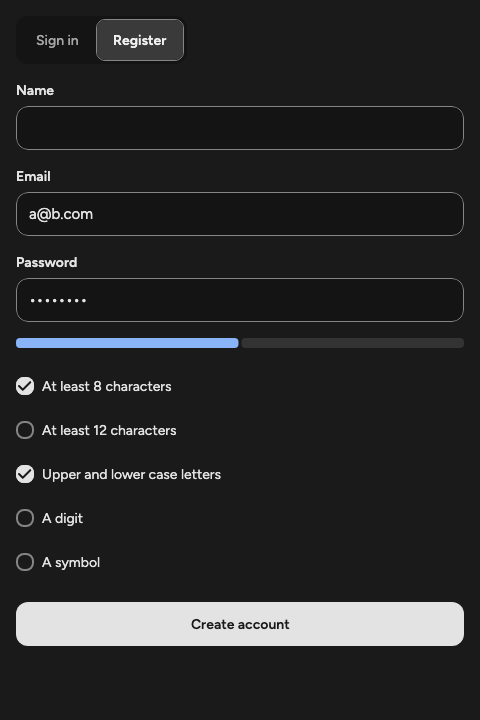
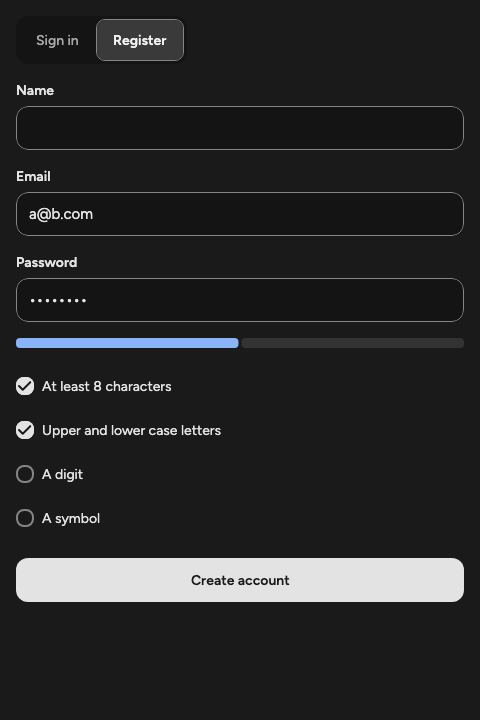
fix(#44): simplify registration password checklist and scoring to 4 rules

diff --git a/better-auth-fds/src/jvmTest/kotlin/dev/fediim/auth/fds/BetterAuthDialogUiTest.kt b/better-auth-fds/src/jvmTest/kotlin/dev/fediim/auth/fds/BetterAuthDialogUiTest.kt
@@ -71,7 +71,7 @@ class BetterAuthDialogUiTest {
 
     onNodeWithText("Register").performClick()
     until("register") { vm.state.value.mode == AuthMode.REGISTER && hasTag(TAG_NAME) }
-    assertTrue((0..4).all { hasTag(TAG_RULE_PREFIX + it) })
+    assertTrue((0..3).all { hasTag(TAG_RULE_PREFIX + it) } && !hasTag(TAG_RULE_PREFIX + "4"))
 
     onNodeWithText("Sign in").performClick()
     until("sign in") { vm.state.value.mode == AuthMode.SIGN_IN && !hasTag(TAG_NAME) }
@@ -285,11 +285,11 @@ class BetterAuthDialogUiTest {
     val cases =
         mapOf(
             "abcdefgh" to listOf(0),
-            "abcdefghijkl" to listOf(0, 1),
-            "Abcdefgh" to listOf(0, 2),
-            "abcdefg1" to listOf(0, 3),
-            "abcdefg!" to listOf(0, 4),
-            "Ab1!" to listOf(2, 3, 4),
+            "Abcdefgh" to listOf(0, 1),
+            "abcdefg1" to listOf(0, 2),
+            "abcdefg!" to listOf(0, 3),
+            "Ab1!" to listOf(1, 2, 3),
+            "Abcdefgh1!" to listOf(0, 1, 2, 3),
         )
     var password by mutableStateOf("")
     setContent {
@@ -307,7 +307,8 @@ class BetterAuthDialogUiTest {
     for ((typed, on) in cases) {
       runOnUiThread { password = typed }
       waitForIdle()
-      for (rule in 0..4) {
+      assertTrue(!hasTag(TAG_RULE_PREFIX + "4"))
+      for (rule in 0..3) {
         val node = onNodeWithTag(TAG_RULE_PREFIX + rule)
         if (rule in on) node.assertIsOn() else node.assertIsOff()
       }

diff --git a/better-auth-fds/src/commonMain/kotlin/dev/fediim/auth/fds/PasswordStrength.kt b/better-auth-fds/src/commonMain/kotlin/dev/fediim/auth/fds/PasswordStrength.kt
@@ -11,14 +11,13 @@ import dev.fediim.fds.components.StackedBarKind
 import dev.fediim.fds.components.StackedBarSegment
 
 /**
- * The five password rules with their label and whether [password] meets each, in this order: at
- * least 8 characters, at least 12 characters, upper and lower case, a digit, a character that is
- * neither letter nor digit. Restated from the view model's scoring (AuthUiContract.kt).
+ * The four password rules with their label and whether [password] meets each, in this order: at
+ * least 8 characters, upper and lower case, a digit, a character that is neither letter nor digit.
+ * Restated from the view model's scoring (AuthUiContract.kt).
  */
 internal fun passwordRules(password: String): List<Pair<String, Boolean>> =
     listOf(
         "At least 8 characters" to (password.length >= 8),
-        "At least 12 characters" to (password.length >= 12),
         "Upper and lower case letters" to
             (password.any { it.isUpperCase() } && password.any { it.isLowerCase() }),
         "A digit" to password.any { it.isDigit() },

diff --git a/better-auth-compose/src/commonMain/kotlin/dev/fediim/auth/compose/AuthUiContract.kt b/better-auth-compose/src/commonMain/kotlin/dev/fediim/auth/compose/AuthUiContract.kt
@@ -139,19 +139,17 @@ internal fun BetterAuthResult<*>.toUiError(): BetterAuthError? =
     }
 
 /**
- * Password score 0..4: 0 below 8 characters, else 1 plus one point each for 12 or more characters,
- * upper and lower case letters, a digit, and a character that is neither letter nor digit (plan #7
- * L7).
+ * Password score 0..4: 0 below 8 characters, else 1 plus one point each for upper and lower case
+ * letters, a digit, and a character that is neither letter nor digit.
  */
 internal fun passwordStrength(password: String): Int {
   if (password.length < 8) return 0
   val points =
       listOf(
-              password.length >= 12,
               password.any { it.isUpperCase() } && password.any { it.isLowerCase() },
               password.any { it.isDigit() },
               password.any { !it.isLetterOrDigit() },
           )
           .count { it }
-  return 1 + points.coerceAtMost(3)
+  return 1 + points
 }

diff --git a/better-auth-compose/src/commonTest/kotlin/dev/fediim/auth/compose/BetterAuthViewModelTest.kt b/better-auth-compose/src/commonTest/kotlin/dev/fediim/auth/compose/BetterAuthViewModelTest.kt
@@ -74,7 +74,7 @@ class BetterAuthViewModelTest {
             "" to 0,
             "Ab1!xyz" to 0,
             "abcdefgh" to 1,
-            "abcdefghijkl" to 2,
+            "abcdefghijkl" to 1,
             "Abcdefgh" to 2,
             "abcdefg1" to 2,
             "abcdefg!" to 2,

diff --git a/.fediim/plans/44.md b/.fediim/plans/44.md
@@ -1,5 +1,5 @@
 # Plan #44 — Simplify registration password checklist and scoring to 4 rules
-AC: AC1→S1,S2,S3,S4,T1,T2 · AC2→S1,S2,S5,S6,S7,S8,T3 · AC3→S1,S2,S3,S4,S5,S6,S7,S8,T1,T2,T3
+AC: AC1→S1,S2,S3,S4,T1,T2 · AC2→S1,S2,S5,S6,T3 · AC3→S1,S2,S3,S4,S5,S6,T1,T2,T3
 tdd: true
 ## Steps
 S1 better-auth-fds/src/commonMain/kotlin/dev/fediim/auth/fds/PasswordStrength.kt:18 — update the KDoc (`:13-17`) and `passwordRules(password: String)` (`:18-26`) to remove `"At least 12 characters" to (password.length >= 12)` (`:21`) and return the 4 rules (`"At least 8 characters" to (password.length >= 8)`, `"Upper and lower case letters" to (password.any { it.isUpperCase() } && password.any { it.isLowerCase() })`, `"A digit" to password.any { it.isDigit() }`, `"A symbol" to password.any { !it.isLetterOrDigit() }`), so `PasswordChecklist` (`:32-43`) renders 4 read-only `Checkbox` rows tagged `fds.rule.0`..`fds.rule.3` in 4 linear short-circuiting scans bounded by `password.length`.
@@ -8,14 +8,12 @@ S3 better-auth-compose/src/commonTest/kotlin/dev/fediim/auth/compose/BetterAuthV
 S4 better-auth-fds/src/jvmTest/kotlin/dev/fediim/auth/fds/BetterAuthDialogUiTest.kt:67 — in `modeSwitchingShowsAndHidesRegisterParts` (`:74`), assert `(0..3).all { hasTag(TAG_RULE_PREFIX + it) } && !hasTag(TAG_RULE_PREFIX + "4")`, and in `checklistFollowsEachRule` (`:284-315`), update `cases` to map `"abcdefgh" to listOf(0)`, `"Abcdefgh" to listOf(0, 1)`, `"abcdefg1" to listOf(0, 2)`, `"abcdefg!" to listOf(0, 3)`, `"Ab1!" to listOf(1, 2, 3)`, and `"Abcdefgh1!" to listOf(0, 1, 2, 3)` while asserting `0..3` via `onNodeWithTag(TAG_RULE_PREFIX + rule)` and `!hasTag(TAG_RULE_PREFIX + "4")`.
 S5 better-auth-fds/screenshots/register-light.png — re-record the light-theme `register` Roborazzi golden via `./gradlew :better-auth-fds:jvmTest --tests dev.fediim.auth.fds.FdsScreenshotTest.register -Proborazzi.test.record=true` (`FdsScreenshotTest.kt:79-84`) so it captures the 4-item `PasswordChecklist`.
 S6 better-auth-fds/screenshots/register-dark.png — re-record the dark-theme `register` Roborazzi golden via `./gradlew :better-auth-fds:jvmTest --tests dev.fediim.auth.fds.FdsScreenshotTest.register -Proborazzi.test.record=true` (`FdsScreenshotTest.kt:79-84`) so it captures the 4-item `PasswordChecklist`.
-S7 sample/screenshots/unauthenticated-register-light.png — re-record the light-theme `unauthenticated-register` Roborazzi golden via `./gradlew :sample:jvmTest --tests dev.fediim.auth.sample.SampleScreenshotTest.unauthenticatedRegister -Proborazzi.test.record=true` (`SampleScreenshotTest.kt:80-94`) so it captures the 4-item `PasswordChecklist`.
-S8 sample/screenshots/unauthenticated-register-dark.png — re-record the dark-theme `unauthenticated-register` Roborazzi golden via `./gradlew :sample:jvmTest --tests dev.fediim.auth.sample.SampleScreenshotTest.unauthenticatedRegister -Proborazzi.test.record=true` (`SampleScreenshotTest.kt:80-94`) so it captures the 4-item `PasswordChecklist`.
 ## Interfaces
 I1 No public signature changes — `internal fun passwordRules(password: String): List<Pair<String, Boolean>>` (`PasswordStrength.kt:18`) and `internal fun passwordStrength(password: String): Int` (`AuthUiContract.kt:146`) retain their signatures while updating their 4-rule contract; all `public` declarations in `dev.fediim.auth.compose` and `dev.fediim.auth.fds` (`AuthUiState`, `BetterAuthViewModel`, `BetterAuthPanel`, `BetterAuthDialog`) are unchanged.
 ## Tests
 T1 better-auth-compose/src/commonTest/kotlin/dev/fediim/auth/compose/BetterAuthViewModelTest.kt:71 — `t2PasswordStrengthPolicyAndRegisterGate` (`:71-128`) asserts `passwordStrength` returns `0` for `""` and `"Ab1!xyz"`, `1` for `"abcdefgh"` and `"abcdefghijkl"`, `2` for `"Abcdefgh"`, `"abcdefg1"`, and `"abcdefg!"`, `3` for `"Abcdefgh1"`, and `4` for `"Abcdefgh1!"` and `"Abcdefghijk1!"`, and verifies `SubmitAuth` in `AuthMode.REGISTER` blocks `passwordStrength == 0` with `AuthUiErrorCodes.PASSWORD_TOO_SHORT`. Today: fails on `"abcdefghijkl"` because `passwordStrength("abcdefghijkl")` returns `2` instead of `1` (`AuthUiContract.kt:150`).
 T2 better-auth-fds/src/jvmTest/kotlin/dev/fediim/auth/fds/BetterAuthDialogUiTest.kt:284 — `modeSwitchingShowsAndHidesRegisterParts` (`:67-79`) and `checklistFollowsEachRule` (`:284-315`) assert that `AuthMode.REGISTER` renders exactly `fds.rule.0`..`fds.rule.3` (`!hasTag("fds.rule.4")`) and toggles rules `0` (`At least 8 characters`), `1` (`Upper and lower case letters`), `2` (`A digit`), and `3` (`A symbol`) across `"abcdefgh"`, `"Abcdefgh"`, `"abcdefg1"`, `"abcdefg!"`, `"Ab1!"`, and `"Abcdefgh1!"`. Today: fails because `PasswordChecklist` renders 5 nodes (`fds.rule.0`..`fds.rule.4`) with `"At least 12 characters"` at `fds.rule.1` (`PasswordStrength.kt:21`).
-T3 better-auth-fds/screenshots/register-light.png — `./gradlew :better-auth-fds:jvmTest` (`FdsScreenshotTest.register` at `FdsScreenshotTest.kt:79-84`), `./gradlew :sample:jvmTest` (`SampleScreenshotTest.unauthenticatedRegister` at `SampleScreenshotTest.kt:80-94`), `./gradlew check -q`, `./gradlew compileAllTargets -q`, and `node .fediim/ci/guards.mjs` pass with zero Roborazzi diff failures across all 12 goldens in `better-auth-fds/screenshots/` and all 12 goldens in `sample/screenshots/`. Today: `register-{light,dark}.png` and `unauthenticated-register-{light,dark}.png` show the 5-row checklist including `"At least 12 characters"`.
+T3 better-auth-fds/screenshots/register-light.png — `./gradlew :better-auth-fds:jvmTest` (`FdsScreenshotTest.register` at `FdsScreenshotTest.kt:79-84`), `./gradlew :sample:jvmTest` (`SampleScreenshotTest.unauthenticatedRegister` at `SampleScreenshotTest.kt:80-94`), `./gradlew check -q`, `./gradlew compileAllTargets -q`, and `node .fediim/ci/guards.mjs` pass with zero Roborazzi diff failures across all 12 goldens in `better-auth-fds/screenshots/` and all 12 goldens in `sample/screenshots/`. Today: `register-{light,dark}.png` show the 5-row checklist including `"At least 12 characters"`.
 ## Alternatives considered
 A1 Keep the 5-rule scoring in `AuthUiContract.kt` and merge the two length rules in `PasswordStrength.kt` into a single dynamic label — rejected: leaves `passwordStrength` and `PasswordChecklist` out of sync (a 12-character lowercase password would still score `2` while checking only 1 of 4 boxes) and violates the issue spec.
 A2 Expand `PasswordStrengthMeter` from `0..4` to `0..5` to keep `"At least 12 characters"` as a separate rule — rejected: displaying both `"At least 8 characters"` and `"At least 12 characters"` simultaneously in the registration checklist is redundant UX, and changing `AuthUiState.passwordStrength`'s documented `0..4` range (`AuthUiContract.kt:24`, `README.md:166`) would alter the public state contract.
@@ -23,3 +21,4 @@ A3 Move `passwordRules` into `better-auth-compose` so `better-auth-fds` and `bet
 ## Assumptions
 L1 Host capability (`check-host-can-run-every-dod-test`): this `x86_64` macOS host runs `./gradlew :better-auth-compose:allTests`, `./gradlew :better-auth-fds:jvmTest`, `./gradlew :sample:jvmTest` (including Roborazzi golden recording with `-Proborazzi.test.record=true`), `./gradlew check -q`, `./gradlew compileAllTargets -q`, and `node .fediim/ci/guards.mjs` required by AC1–AC3 — reversible
 L2 Prose documentation (`README.md:166`): `README.md` states `Registration is blocked (PASSWORD_TOO_SHORT) below 8 characters; passwordStrength is 0..4` without enumerating the 12-character bonus point, so no prose `.md` files outside the KDocs in `PasswordStrength.kt:13-17` and `AuthUiContract.kt:141-145` become stale — reversible
+L3 Sample register golden (`SampleScreenshotTest.kt:80-94`): `unauthenticatedRegister` captures `UnauthenticatedScreen` at `480x720`, where the preset and failure-scenario rows place `PasswordChecklist` below the `720px` bottom edge (the frame clips at the top of `PasswordStrengthMeter`); re-recording `sample/screenshots/unauthenticated-register-{light,dark}.png` yields byte-identical files, so only `better-auth-fds/screenshots/register-{light,dark}.png` change in git — reversible
